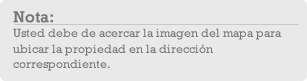
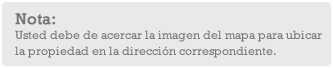
maps note

Changed region(s): [[0.0293, 0.1176, 0.9674, 0.8824]]

diff --git a/css/propiedadsantiaguera.css b/css/propiedadsantiaguera.css
@@ -1803,7 +1803,7 @@ ul.primary-links li a, ul.primary-links li a:link, ul.primary-links li a:visited
     float: left;
 }
 
-#property-form-videos-note {
+#property-form-maps-note {
     float: left;
     margin-left: 10px;
     width: 435px;

diff --git a/application/views/forms/add_properties_form.php b/application/views/forms/add_properties_form.php
@@ -569,7 +569,7 @@ $property_coordenates = isset($property_coordenates) ? $property_coordenates : "
     <p class="form-section-header"><img class="form-section-number" src="/images/common/greenNumber3.png"/><span>Ubicaci&oacute;n</span></p>
 
     <div id="property-form-gmap-picker"></div>
-    <img id="property-form-videos-note" src="<?php echo base_url();?>images/common/videosNote.png" alt="instrucciones-del-video"/>
+    <img id="property-form-maps-note" src="<?php echo base_url();?>images/common/mapsNote.png" alt="instrucciones-del-mapa"/>
         
     <div class="form-buttons">
         <input id="property-form-send-button" class="form-send-button" type="image" src="/images/common/formSubmitButton.png"/>
